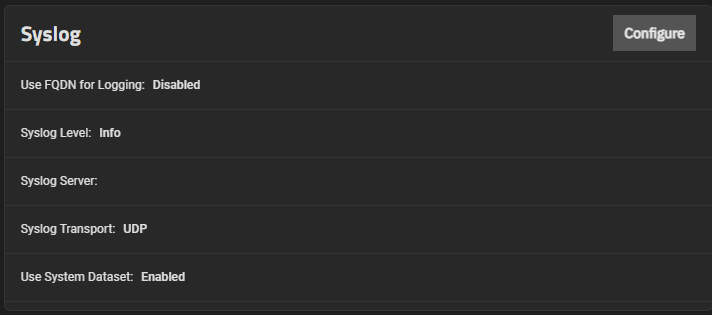
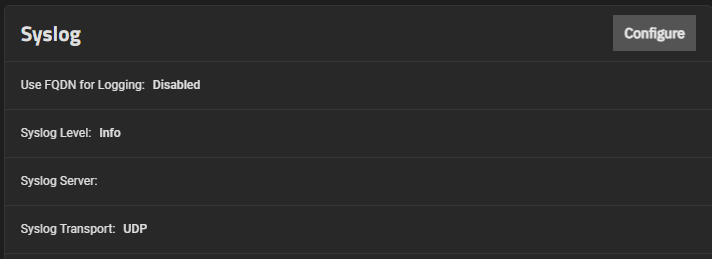
PD-660: Update BETA.1 for syslog behavior change
- Add callout for this change to BETA.1 release notes
- Update impacted SCALE tutorial, UI Ref, and screenshots.

diff --git a/content/SCALEUIReference/SystemSettings/AdvancedSettingsScreen.md b/content/SCALEUIReference/SystemSettings/AdvancedSettingsScreen.md
@@ -61,7 +61,8 @@ The **Syslog** widget displays the existing system logging settings that specify
 **Configure** opens the **[Syslog](#syslog-configuration-screen)** configuration screen.
 
 ### Syslog Configuration Screen
-The **Syslog** settings specify the logging level the system uses to record system events. It also lists the syslog server DNS hostname or IP, the transport protocol it uses, the certificate and certificate authority (CA) for that server (if using TLS), and, finally, if it uses the system dataset to store logs.
+The **Syslog** settings specify the logging level the system uses to record system events to the boot device.
+There are also options to configure a remote syslog server for recording system events.
 {{< expand "Click Here for More Information" "v" >}}
 
 {{< trueimage src="/images/SCALE/23.10/SyslogConfigScreen.png" alt="Syslog Config Screen" id="Syslog Config Screen" >}}
@@ -75,7 +76,6 @@ The **Syslog** settings specify the logging level the system uses to record syst
 | **Syslog Transport** | Enter the [transport protocol](https://tools.ietf.org/html/rfc8095) for the remote system log server connection. Selecting Transport Layer Security (TLS) displays the **Syslog TLS Certificate** and **Syslog TSL Certificate Authority** fields. This setting requires preconfiguring both the server system certificate and the certificate authority (CA). |
 | **Syslog TLS Certificate** | Displays after selecting **TLS** in **Syslog Transport**. Select the [transport protocol](https://tools.ietf.org/html/rfc8095) for the remote system log server TLS certificate from the dropdown list. Select the default or add the certificate and CA for the server using the **Credentials > Certificates** screen **Certificates** widget. |
 | **Syslog TLS Certificate Authority** | Displays after selecting **TLS** in **Syslog Transport**. Select the TLS CA for the TLS server from the dropdown list. If not using the default, create the CA for the systlog server TLS certificate on the **Credentials > Certificates > Certificate Authorities** screen. |
-| **Use System Dataset** | Select to store system logs on the system dataset. Leave clear to store system logs in `/var/` on the operating system device. |
 {{< /truetable >}}
 {{< /expand >}}
 

diff --git a/content/SCALETutorials/SystemSettings/Advanced/ManageSysLogsSCALE.md b/content/SCALETutorials/SystemSettings/Advanced/ManageSysLogsSCALE.md
@@ -9,9 +9,8 @@ tags:
  - scalesettings
 ---
 
-
-
-The **Syslog** widget on the **System > Advanced** screen allows users determine how and when the system sends log messages to the syslog server. 
+By default, TrueNAS writes system logs to the system boot device.
+The **Syslog** widget on the **System > Advanced** screen allows users determine how and when the system sends log messages to a connected syslog server.
 The **Syslog** widget displays the existing system logging settings.
 
 ![AdvancedSystemSettingsSyslogWidget](/images/SCALE/23.10/AdvancedSystemSettingsSyslogWidget.png "SCALE Advanced Settings Syslog Widget") 
@@ -36,8 +35,6 @@ Select **Use FQDN for Logging** to include the fully-qualified domain name (FQDN
 
 Select the logging level the syslog server uses when creating system logs from **Syslog Level** the dropdown list. The system only sends logs matching this level.
 
-Select **Use System Dataset** to store system logs on the system dataset. Leave clear to store system logs in `/var/` on the operating system device. 
-
 Click **Save**.
 
-{{< taglist tag="scalesettings" limit="10" >}} 
+{{< taglist tag="scalesettings" limit="10" >}}

diff --git a/content/GettingStarted/SCALEReleaseNotes.md b/content/GettingStarted/SCALEReleaseNotes.md
@@ -171,6 +171,7 @@ Do not use early release software for critical tasks.
 Other notable changes:
 
 * The advanced **Auxiliary Parameters** field is removed from both **Shares > SMB > Add** and **System Settings > Services > SMB** screens ([NAS-120530](https://ixsystems.atlassian.net/browse/NAS-120530)). Previously configured auxiliary parameters do remain on upgrade, but further changes must be done through CLI or API.
+* As part of the system reporting and debug improvements, system logs now exclusively write to the TrueNAS boot device.
 
 <a href="https://ixsystems.atlassian.net/issues/?filter=10359&atlOrigin=eyJpIjoiNTczY2E2NmVjODk5NGE0NThlZTFlOTI4MDFhOTMzNzUiLCJwIjoiaiJ9" target="_blank">Click here for the full changelog</a> of completed tickets that are included in the 23.10-BETA.1 release.
 To switch between detail and list views for the changelog, press `t`.
